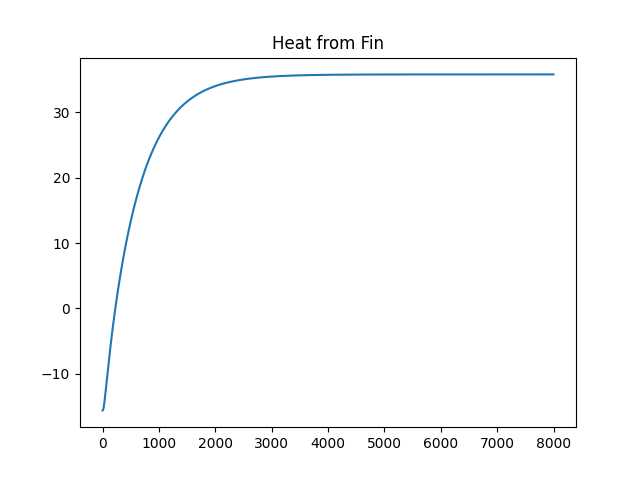
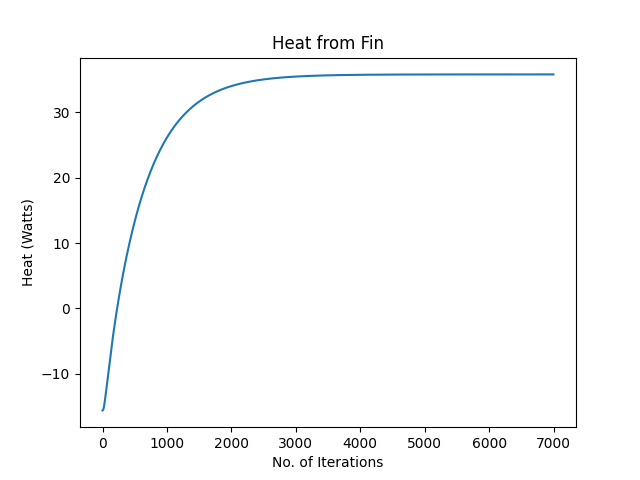
fin_stuff

diff --git a/generate_matrix & solver.py b/generate_matrix & solver.py
@@ -191,38 +191,8 @@ for i in internal_nodesD:
 
 # ----------------------------------------Code to solve the matrices---------------------------------------#
 
-T_init = np.zeros(n)
-T_1d = np.copy(T_init)
-
 T_1d = spsolve(A, Su)
 
-"""
-T_corner = []
-heat_in = []
-heat_out = []
-fin_heat = []
-
-iter = 0
-n_iterations = 4000
-iter_array = range(n_iterations)
-
-while iter < n_iterations:
-
-    for i in range(np.shape(A)[0]):
-        GS_num = 0
-        for j in range(np.shape(A)[1]):
-            if A[i,j] != 0 and i!=j:
-                GS_num += -A[i,j]*T_1d[j]
-                
-        T_1d[i] = (GS_num + Su[i]) / A[i,i]
-
-    iter +=1
-    
-    heat_in.append ( dx/dx*k* np.sum(T_1d[left_fixed] - T_1d[left_fixed+1]) )
-    heat_out.append ( h*dx * np.sum(T_1d[total_convection] - T_infin) )
-    fin_heat.append ( 2*h*dx * np.sum(T_1d[fin_convection] - T_infin) )
-    T_corner.append(T_1d[c3])
-"""
 T_2d = reshape2(T_1d, np.nan)
 
 # Code to plot the temperature profile
@@ -236,68 +206,13 @@ plt.ylabel("mm")
 cbar = plt.colorbar()
 plt.show()
 
-
 # Code to output the total heat transfer
-heat_in_final = heat_in[-1]
-heat_out_final = heat_out[-1]   
+heat_in = ( dx/dx*k* np.sum(T_1d[left_fixed] - T_1d[left_fixed+1]) )
+heat_out = ( h*dx * np.sum(T_1d[total_convection] - T_infin) )
+fin_heat = ( 2*h*dx * np.sum(T_1d[fin_convection] - T_infin) )
+T_corner = T_1d[c3]
 
-print(fin_heat[-1])
-print(T_corner[-1])
-
-# Plots to check convergence
-plt.plot(iter_array, fin_heat)
-plt.title("Heat from Fin")
-plt.xlabel("No. of Iterations")
-plt.ylabel("Heat (Watts)")
-plt.show()
-
-plt.plot(iter_array, T_corner)
-plt.title("T corner")
-plt.xlabel("No. of Iterations")
-plt.ylabel("Celcius")
-plt.show()
-
-
-# ---------------------Code to plot the geomtery---------------------------------------
-"""
-#convert from 1D indexes to the 2D indexes for graphing
-top_x, top_y = where2(top_adiabatic)
-right_fin_x, right_fin_y = where2(right_convec_fin)
-bottom_fin_x, bottom_fin_y = where2(bottom_convec)
-right_flat_x, right_flat_y = where2(right_convec_flat)
-total_convec_x, total_convec_y = where2(total_convection)
-bottom_flat_x, bottom_flat_y = where2(bottom_adiabatic)
-left_x, left_y = where2(left_fixed)
-internalA_x, internalA_y = where2(internal_nodesA)
-internalB_x, internalB_y = where2(internal_nodesB)
-internalD_x, internalD_y = where2(internal_nodesD)
-
-# Drawing the volume to verify
-#plt.scatter(test_xy[1], test_xy[0], color = 'k')
-test_xy = (np.where(index_2d != 0.5))
-
-plt.scatter(internalA_x, ny - internalA_y, color = "silver")
-plt.scatter(internalB_x, ny - internalB_y, color = "silver")
-plt.scatter(internalD_x, ny - internalD_y, color = "k")
-plt.scatter(top_x, ny- top_y, color = "b")
-#plt.scatter(right_fin_x, ny - right_fin_y, color = "m")
-#plt.scatter(bottom_fin_x, ny - bottom_fin_y, color = "m")
-#plt.scatter(right_flat_x, ny - right_flat_y, color = "m")
-plt.scatter(bottom_flat_x, ny - bottom_flat_y, color = "b")
-plt.scatter(left_x, ny - left_y, color = "r")
-#plt.scatter(convert(c1)[1], ny - convert(c1)[0], color = "g")
-#plt.scatter(convert(c2)[1], ny - convert(c2)[0], color = "g")
-#plt.scatter(convert(c3)[1], ny - convert(c3)[0], color = "g")
-#plt.scatter(convert(c4)[1], ny - convert(c4)[0], color = "g")
-#plt.scatter(convert(c5)[1], ny - convert(c5)[0], color = "g")
-plt.scatter(total_convec_x, ny - total_convec_y, color = "m")
-plt.show()
-
-"""
-
-#plt.plot(iter_array, heat_in)
-#plt.title("Heat IN")
-#plt.show()
-#plt.plot(iter_array, heat_out)
-#plt.title("Heat out")
-#plt.show()
+print(heat_in)
+print(heat_out)
+print(fin_heat)
+print(T_corner)
